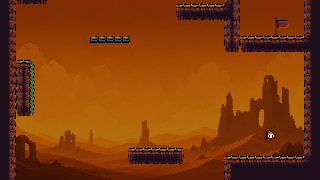
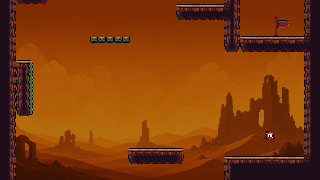
Add handling sticky wall movement

diff --git a/Assets/_Game/Scripts/Level/Elements/StickyWall/StickyWall.cs b/Assets/_Game/Scripts/Level/Elements/StickyWall/StickyWall.cs
@@ -20,8 +20,15 @@ namespace Sling.Level.Elements.StickyWall
     private readonly Dictionary<Collider2D, PhysicsMaterial2D> _origPhysMaterials = new();
     private readonly Dictionary<Rigidbody2D, LaunchImmunity> _launchImmunities = new();
 
+    private Rigidbody2D _carrierRb;
+    private Vector2 _lastCarrierPosition;
+
     private void Awake()
     {
+      _carrierRb = GetComponentInParent<Rigidbody2D>();
+      if (_carrierRb != null)
+        _lastCarrierPosition = _carrierRb.position;
+
       _slowdownTriggerZone.OnEnter += OnEnterSlowdownZone;
       _slowdownTriggerZone.OnExit += OnExitSlowdownZone;
       
@@ -147,14 +154,33 @@ namespace Sling.Level.Elements.StickyWall
       return false;
     }
 
+    private Vector2 GetCarrierVelocity()
+    {
+      if (_carrierRb == null)
+        return Vector2.zero;
+
+      Vector2 currentPosition = _carrierRb.position;
+      Vector2 velocity = _carrierRb.linearVelocity;
+      if (velocity.sqrMagnitude <= 0f && Time.fixedDeltaTime > 0f)
+        velocity = (currentPosition - _lastCarrierPosition) / Time.fixedDeltaTime;
+
+      _lastCarrierPosition = currentPosition;
+      return velocity;
+    }
+
     private void ApplySlowdown()
     {
+      Vector2 carrierVel = GetCarrierVelocity();
+
       foreach (Rigidbody2D rb in _collidedRbs.Keys)
       {
         if (_launchImmunities.ContainsKey(rb))
           continue;
 
-        rb.linearVelocityY = Mathf.Clamp(rb.linearVelocityY, -Config.MaxSpeed, Config.MaxSpeed);
+        Vector2 relative = rb.linearVelocity - carrierVel;
+        relative.x = 0f;
+        relative.y = Mathf.Clamp(relative.y, -Config.MaxSpeed, Config.MaxSpeed);
+        rb.linearVelocity = carrierVel + relative;
       }
     }
 
